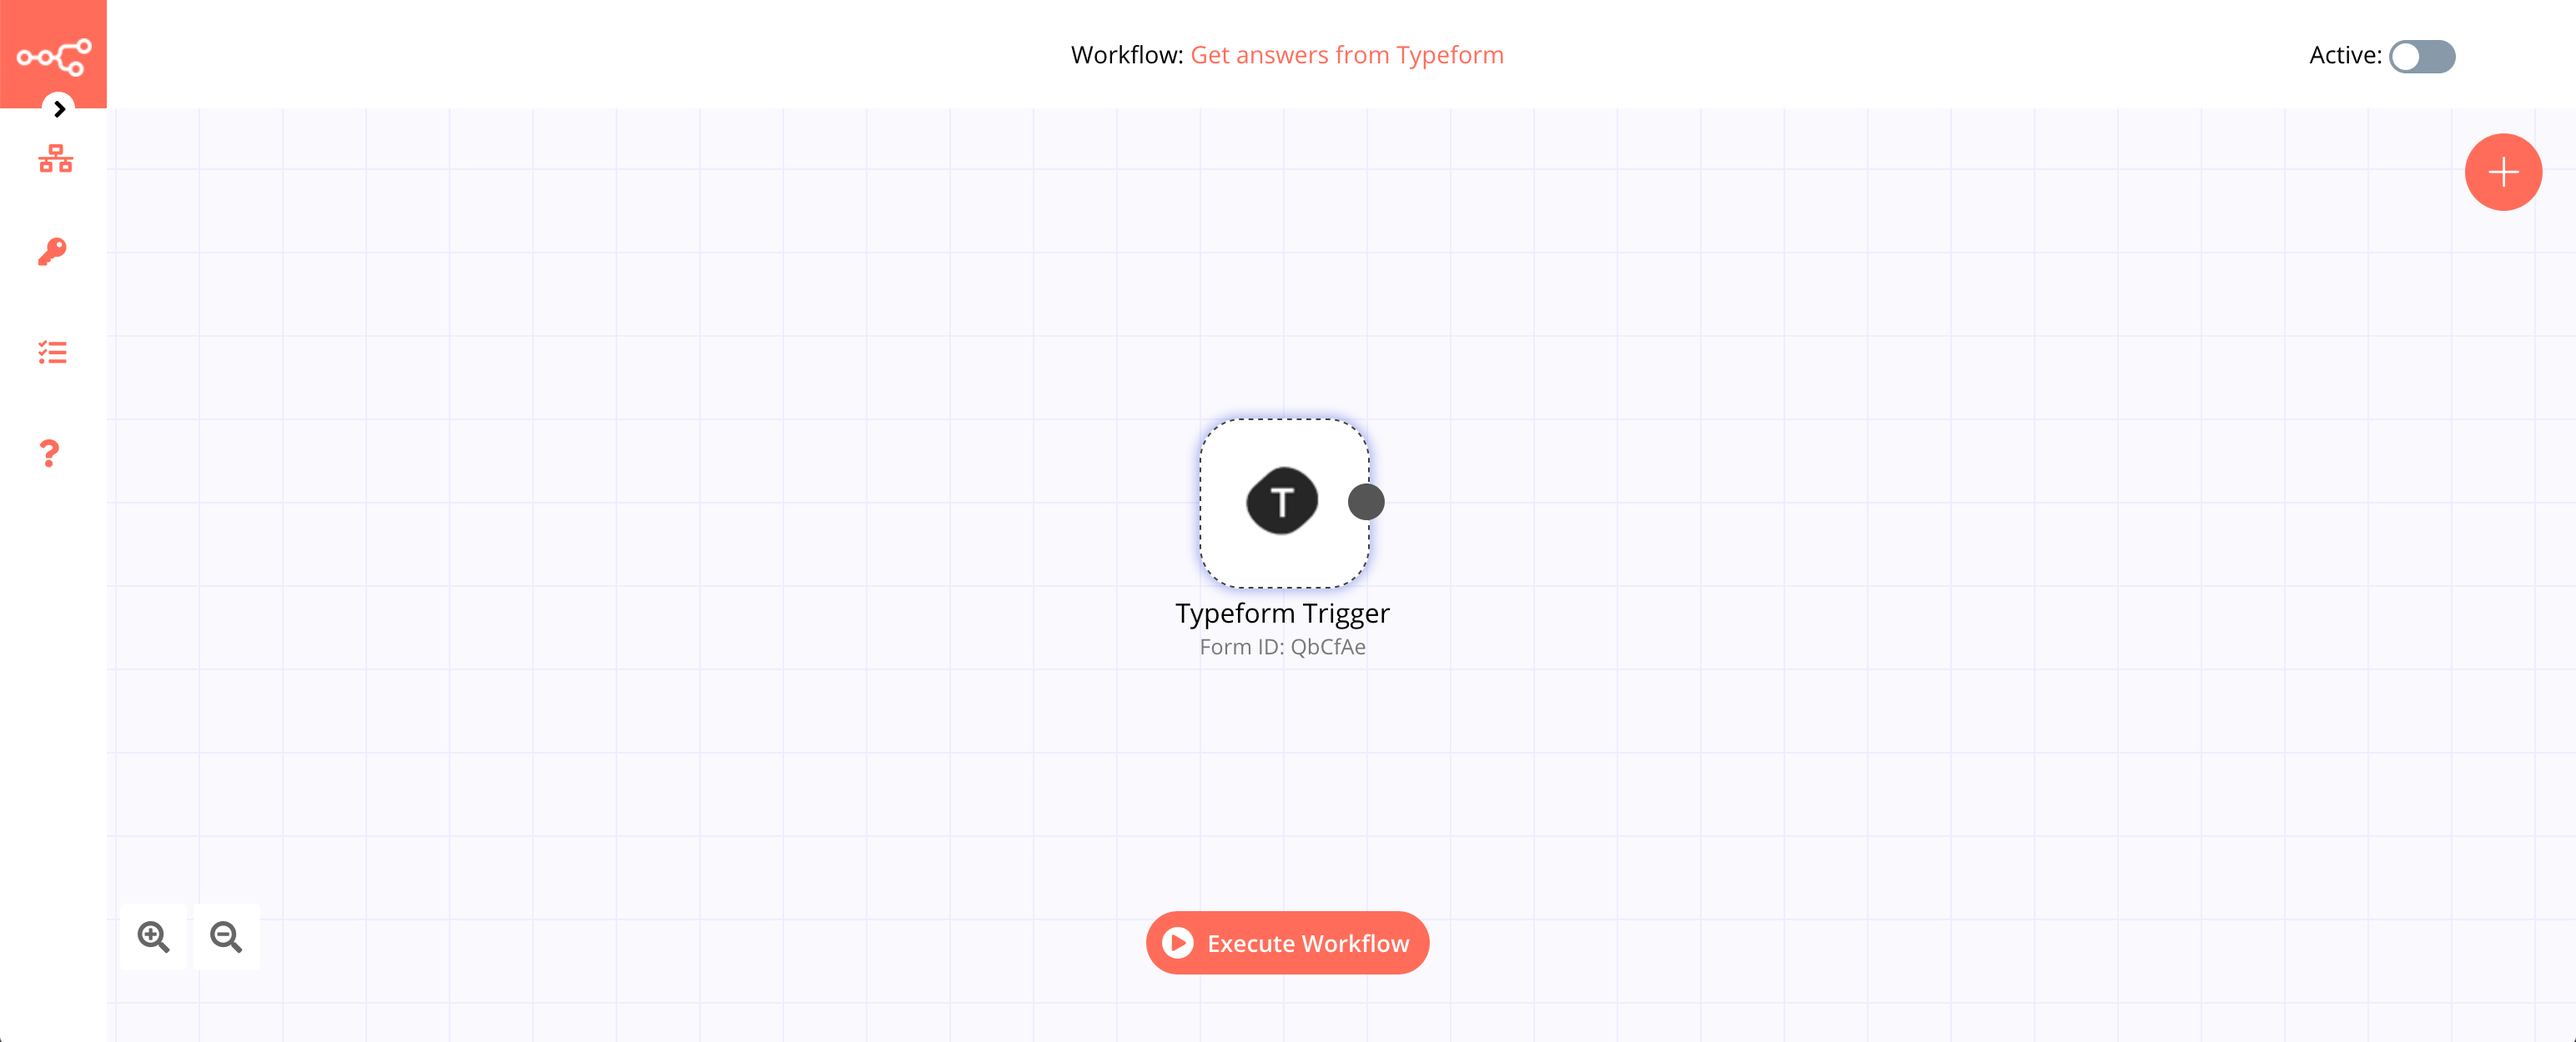
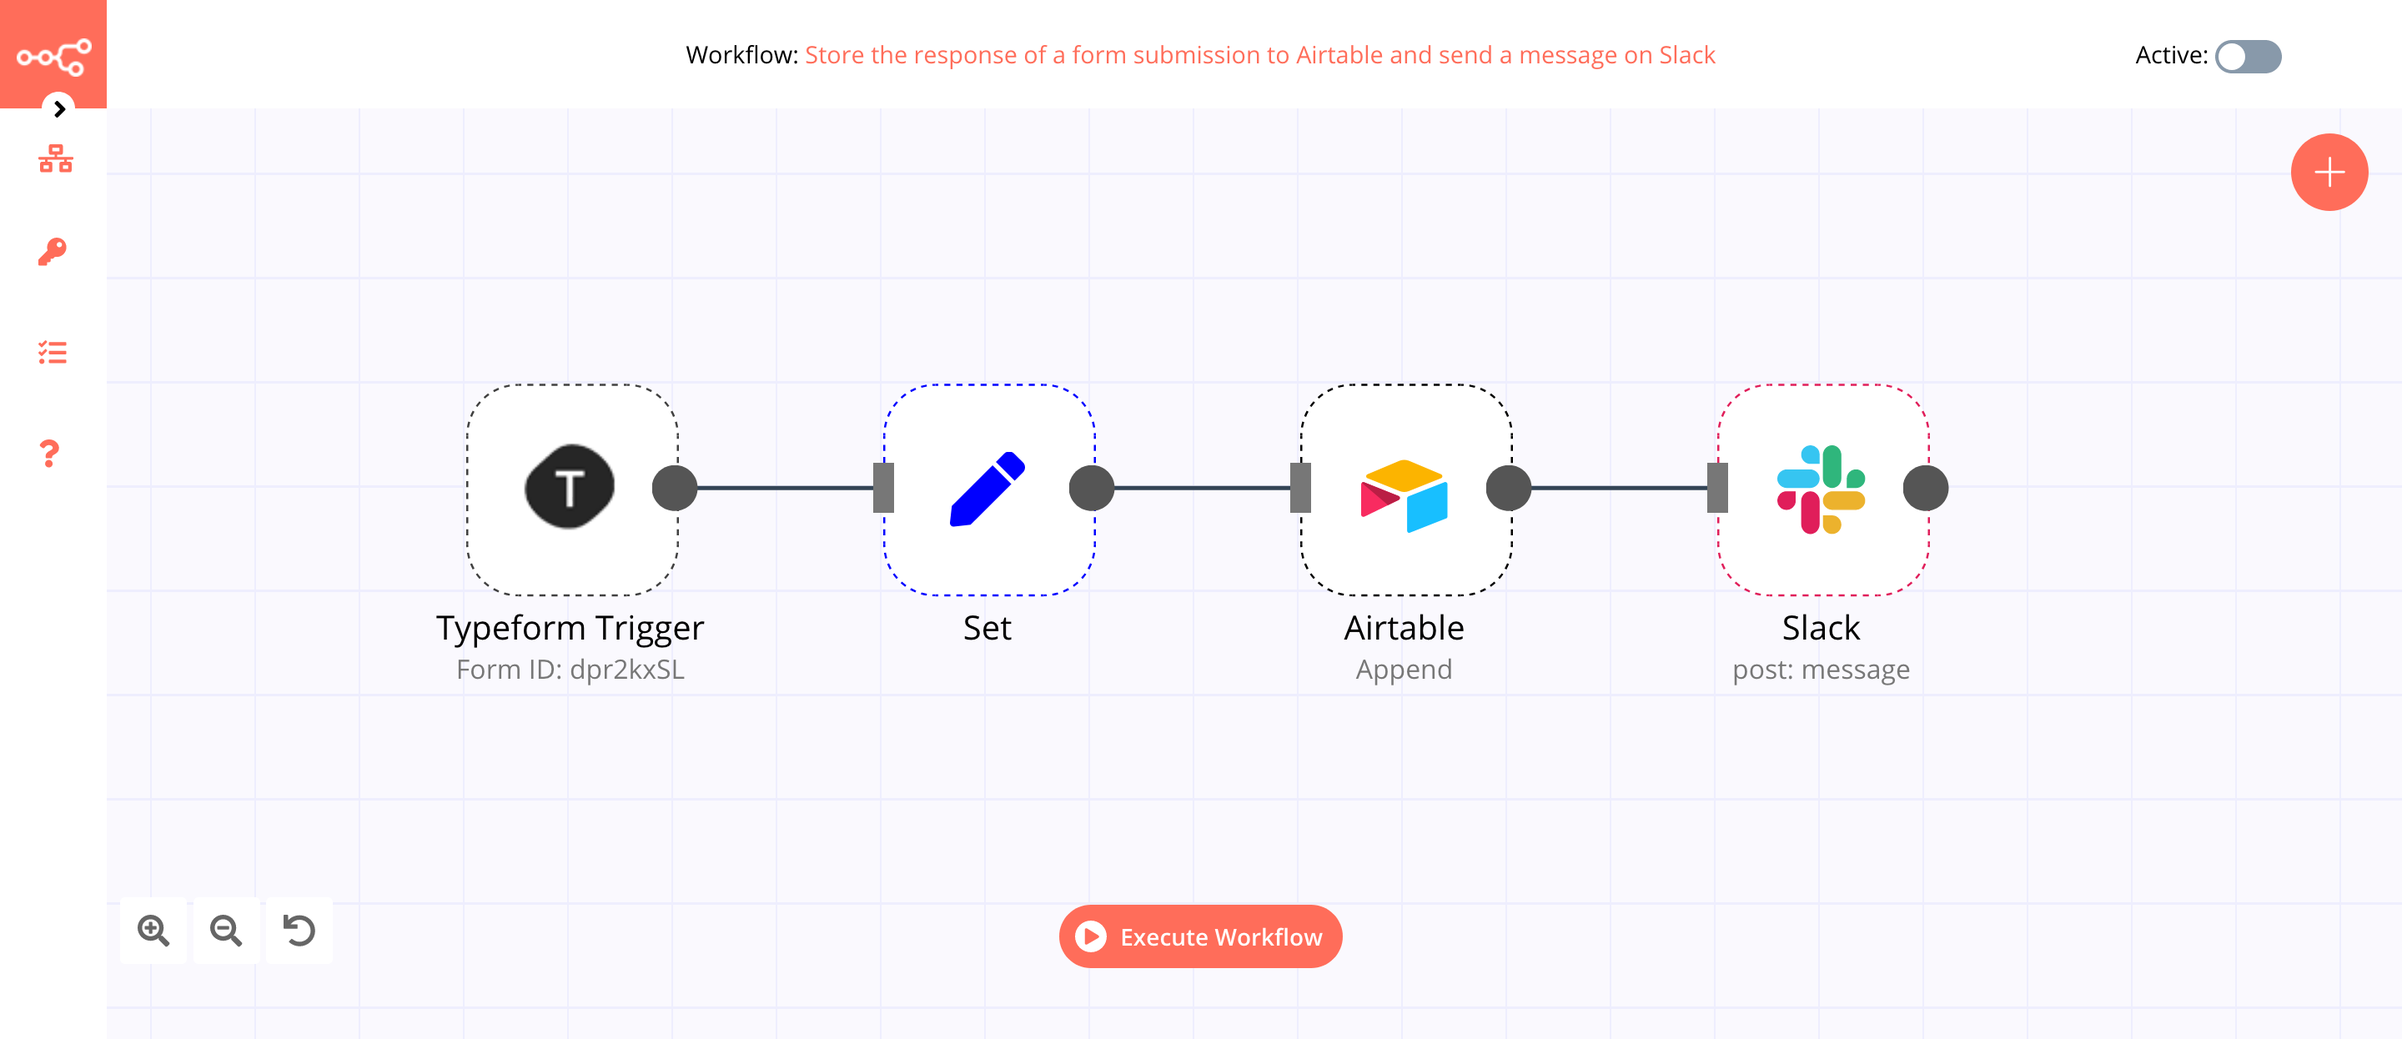
⚡Improve example

diff --git a/docs/nodes/nodes-library/trigger-nodes/TypeformTrigger/README.md b/docs/nodes/nodes-library/trigger-nodes/TypeformTrigger/README.md
@@ -14,8 +14,11 @@ You can find authentication information for this node [here](../../../credential
 
 ## Example Usage
 
-This workflow allows you to get the answers from a form submission in Typeform. You can also find the [workflow](https://n8n.io/workflows/457) on the website. This example usage workflow would use the following node.
+This workflow allows you to store the response of a form submission to Airtable and send a message on Slack. You can also find the [workflow](https://n8n.io/workflows/916) on the website. This example usage workflow would use the following node.
 - [Typeform Trigger]()
+- [Set](../../core-nodes/Set/README.md)
+- [Airtable](../../nodes/Airtable/README.md)
+- [Slack](../../nodes/Slack/README.md)
 
 The final workflow should look like the following image.
 
@@ -24,9 +27,77 @@ The final workflow should look like the following image.
 
 ### 1. Typeform Trigger node
 
+This node will trigger the workflow when a form response is submitted.
+
 1. First of all, you'll have to enter credentials for the Typeform Trigger node. You can find out how to do that [here](../../../credentials/Typeform/README.md).
-2. Select the form you want to receive the answers from in the *Form* field.
-3. Click on *Execute Node* to run the workflow.
+2. Select your form from the ***Form*** dropdown list.
+3. Click on ***Execute Node*** to run the workflow.
+
+In the screenshot below, you will notice that the Typeform Trigger node triggers the workflow and returns the response submitted by a user.
+
+![Using the Typeform Trigger node to trigger the workflow](./TypeformTrigger_node.png)
+
+### 2. Set node
+
+We will use the Set node to ensure that only the data that we set in this node gets passed on to the next nodes in the workflow. We will set the value of `Name`, `Email`, `Interest`, and `Country` in this node.
+::: v-pre
+1. Click on ***Add Value*** and select 'String' from the dropdown list.
+2. Enter `Name` in the ***Name*** field.
+3. Click on the gears icon next to the ***Value*** field and click on ***Add Expression***.
+4. Select the following in the ***Variable Selector*** section: Current Node > Input Data > JSON > Let's start with your *name.*. You can also add the following expression: `{{$json["Let's start with your *name.*"]}}`.
+5. Click on ***Add Value*** and select 'String' from the dropdown list.
+6. Enter `Email` in the ***Name*** field.
+7. Click on the gears icon next to the ***Value*** field and click on ***Add Expression***.
+8. Select the following in the ***Variable Selector*** section: Current Node > Input Data > JSON > [field:d566770d2197a78b] what's your email address?. You can also add the following expression: `{{$json["[field:d566770d2197a78b] what's your email address?"]}}`.
+9. Click on ***Add Value*** and select 'String' from the dropdown list.
+10. Enter `Interest` in the ***Name*** field.
+11. Click on the gears icon next to the ***Value*** field and click on ***Add Expression***.
+12. In the ***Variable Selector*** section, click on the circle button next to Current Node > Input Data > JSON > Let us know about your interest..
+13. Select 'Values' from the dropdown list. You can also add the following expression: `{{$json["Let us know about your interest."].join(', ')}}`. This will add all the options selected by the user.
+14. Click on ***Add Value*** and select 'String' from the dropdown list.
+15. Enter `Country` in the ***Name*** field.
+16. Click on the gears icon next to the ***Value*** field and click on ***Add Expression***.
+17. Select the following in the ***Variable Selector*** section: Current Node > Input Data > JSON > From which country will you attend the meetup?. You can also add the following expression: `{{$json["From which country will you attend the meetup?"]}}`.
+18. Toggle ***Keep Only Set*** to `true`. We set this option to true to ensure that only the data that we have set in this node get passed on to the next nodes in the workflow.
+19. Click on ***Execute Node*** to run the node.
+:::
+In the screenshot below, you will notice that the node sets the values of `Name`, `Email`, `Interest`, and `Country`. These values are passed to the next node in the workflow.
+
+![Using the Set node to set the values](./Set_node.png)
+
+### 4. Airtable node (Append)
+
+This node will append the data that we set in the previous node to a table. Create a table like [this](https://airtable.com/shreoj1AmTE6S6Eep) in your Airtable base.
+
+1. First of all, you'll have to enter credentials for the Airtable node. You can find out how to do that [here](../../../credentials/Airtable/README.md).
+2. Select 'Append' from the ***Operation*** dropdown list.
+3. Enter the Base ID in the ***Base ID*** field. For obtaining the Base ID, head over to their [API page](https://airtable.com/api) and select the correct base. You’ll find the Base ID there.
+4. Enter the name of your table in the ***Table*** field.
+5. Click on ***Execute Node*** to run the node.
+
+In the screenshot below, you will notice that the node appends the data that we had set in the previous node.
+
+![Using the Airtable node to insert data into an Airtable table](./Airtable_node.png)
+
+### 5. Slack node (post: message)
+
+This node will send a message about the new form submission to a channel in a Slack workspace.
+
+1. First of all, you'll have to enter credentials for the Slack node. You can find out how to do that [here](../../../credentials/Slac/README.md).
+2. Enter the name of a channel in the ***Channel*** field.
+3. Click on the gears icon next to the ***Text*** field and click on ***Add Expression***.
+4. Enter the following text in the ***Expression Editor***
+```
+*New Submission* 🙌
+Name: {{$node["Set"].json["Name"]}}
+Interests: {{$node["Set"].json["Interest"]}}
+Country: {{$node["Set"].json["Country"]}}
+```
+5. Click on ***Execute Node*** to run the node.
+
+In the screenshot below, you will notice that the node sends a message with the new form response on Slack.
+
+![Using the Slack node to send a message to channel](./Slack_node.png)
 
 ::: tip 💡 Activate workflow for production
 You'll need to save the workflow and then click on the Activate toggle on the top right of the screen to activate the workflow. Your workflow will then be triggered as specified by the settings in the Typeform Trigger node.

diff --git a/docs/nodes/credentials/Typeform/README.md b/docs/nodes/credentials/Typeform/README.md
@@ -28,11 +28,19 @@ Create a [Typeform](https://typeform.com/) account.
 
 ## Using Access Token
 
-1. Access your Typeform dashboard.
-2. Go to your user profile in the top right.
-3. Click on 'Settings' and then click on 'Personal tokens' in the sidebar.
+1. Open the Typeform [dashboard](https://admin.typeform.com).
+2. Click on your avatar on the top right and select 'Settings'.
+3. Click on ***Personal tokens*** under the ***Profile*** section in the sidebar.
 4. Click on the ***Generate a new token*** button.
-5. Enter a name in the ***Token name*** field and click on the ***Generate token*** button.
-6. Use the displayed ***Personal access token*** with your Typeform API credentials in n8n.
+5. Enter a name in the ***Token name*** field.
+6. Click on the ***Generate token*** button.
+7. Click on the ***Copy*** button to copy the access token.
+9. Enter a name for your credentials in the ***Credentials Name*** field in the 'Typeform API' credentials in n8n.
+10. Paste the access token in the ***Access Token*** field in the 'Typeform API' credentials in n8n.
+11. Click the ***Create*** button to save your credentials in n8n.
 
-![Getting TypeForm Access Token](./using-access-token.gif)
+The following video demonstrates the steps mentioned above.
+
+<div class="video-container">
+<iframe width="840" height="472.5" src="https://www.youtube.com/embed/K7UxD2jG_CI" frameborder="0" allow="accelerometer; autoplay; clipboard-write; encrypted-media; gyroscope; picture-in-picture" allowfullscreen></iframe>
+</div>
